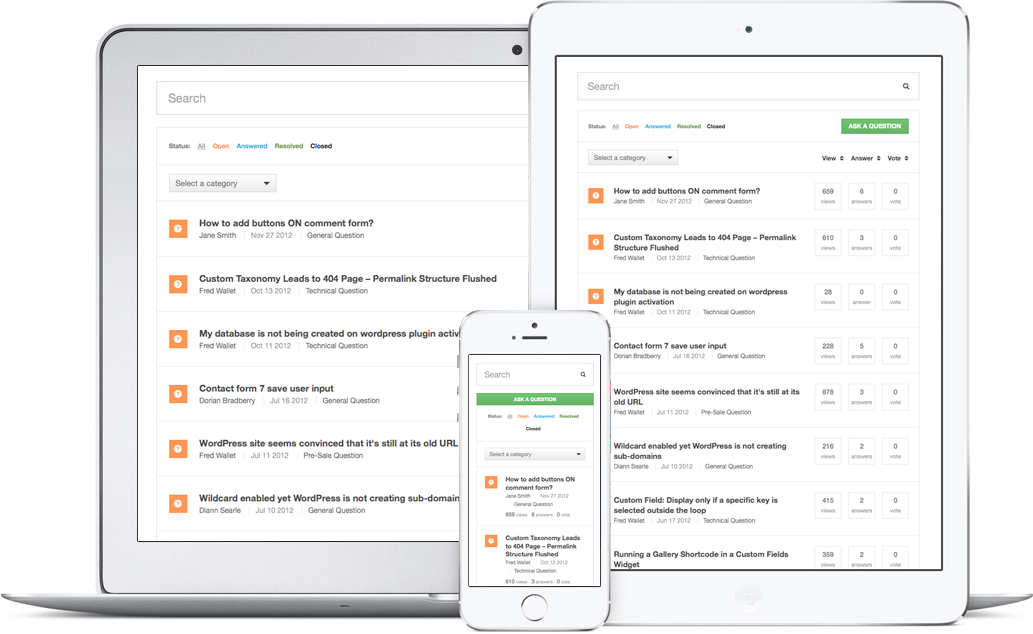
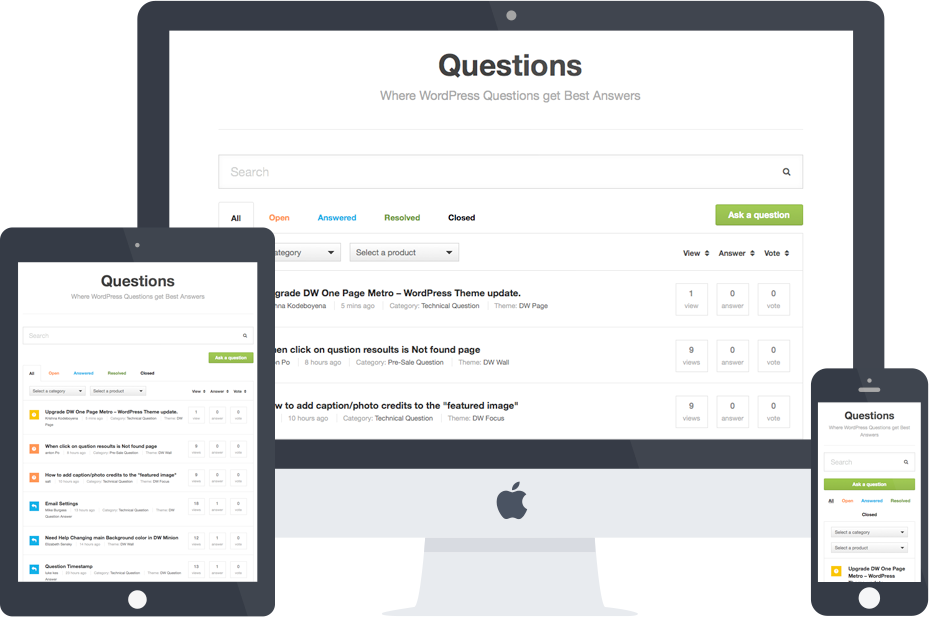
Style for feature page and replace image in index page

diff --git a/index.html b/index.html
@@ -24,8 +24,8 @@
     <nav class="navbar navbar-fixed-top" role="navigation" data-spy="affix" data-offset-top="50">
       <div class="container">
         <ul class="nav navbar-nav">
-          <li class="active"><a href="index.html">Home</a></li>
-          <li><a href="features.html">Features</a></li>
+          <li class="active"><a href="index.html">DW Question &amp; Answer</a></li>
+          <li><a href="features.html">Explore</a></li>
           <li><a href="documentation.html">Documentation</a></li>
           <li><a href="#">Support</a></li>
           <li class="social">
@@ -63,25 +63,6 @@
         </div>
       </section>
 
-      <!--<section id="social-buttons" class="section hidden-print">
-        <div class="container">
-          <ul class="list-inline">
-            <li>
-              <iframe class="github-btn" src="http://ghbtns.com/github-btn.html?user=DesignWall&amp;repo=DW-Question-Answer&amp;type=watch&amp;count=true" allowtransparency="true" frameborder="0" scrolling="0" width="100px" height="20px"></iframe>
-            </li>
-            <li>
-              <iframe class="github-btn" src="http://ghbtns.com/github-btn.html?user=DesignWall&amp;repo=DW-Question-Answer&amp;type=fork&amp;count=true" allowtransparency="true" frameborder="0" scrolling="0" width="102px" height="20px"></iframe>
-            </li>
-            <li class="follow-btn">
-              <iframe id="twitter-widget-1" scrolling="no" frameborder="0" allowtransparency="true" src="http://platform.twitter.com/widgets/follow_button.1384994725.html#_=1386213911579&amp;id=twitter-widget-1&amp;lang=en&amp;screen_name=designwall_com&amp;show_count=true&amp;show_screen_name=true&amp;size=m" class="twitter-follow-button twitter-follow-button" title="Twitter Follow Button" data-twttr-rendered="true" style="width: 243px; height: 20px;"></iframe>
-            </li>
-            <li class="tweet-btn hidden-phone">
-              <iframe id="twitter-widget-0" scrolling="no" frameborder="0" allowtransparency="true" src="http://platform.twitter.com/widgets/tweet_button.1384994725.html#_=1386213911567&amp;count=horizontal&amp;counturl=http%3A%2F%2Ffortawesome.github.com%2FFont-Awesome%2F&amp;id=twitter-widget-0&amp;lang=en&amp;original_referer=http%3A%2F%2Ffontawesome.io%2Fexamples%2F&amp;related=davegandy%3ACreator%20of%20Font%20Awesome&amp;size=m&amp;text=Font%20Awesome%2C%20the%20iconic%20font%20designed%20for%20Bootstrap&amp;url=http%3A%2F%2Ffontawesome.io&amp;via=designwall_com" class="twitter-share-button twitter-tweet-button twitter-count-horizontal" title="Twitter Tweet Button" data-twttr-rendered="true" style="width: 107px; height: 20px;"></iframe>
-            </li>
-          </ul>
-        </div>
-      </section>-->
-
       <section id="slider" class="section">
         <div class="container">
           
@@ -90,19 +71,81 @@
           
           <div id="carousel-example-generic" class="carousel slide" data-ride="carousel">
             <div class="carousel-inner">
-              <div class="item">
-                <img data-src="holder.js/900x500/auto/#777:#555/text:First slide" alt="First slide" src="assets/img/dwqa-screenshot.png">
-              </div>
               <div class="item active">
-                <img data-src="holder.js/900x500/auto/#666:#444/text:Second slide" alt="Second slide" src="assets/img/dwqa-screenshot.png">
+                <img alt="First slide" src="images/slide-1.png">
               </div>
               <div class="item">
-                <img data-src="holder.js/900x500/auto/#555:#333/text:Third slide" alt="Third slide" src="assets/img/dwqa-screenshot.png">
+                <img alt="Second slide" src="images/slide-1.png">
+              </div>
+              <div class="item">
+                <img alt="Third slide" src="images/slide-1.png">
               </div>
             </div>
             <a class="left carousel-control" href="#carousel-example-generic" data-slide="prev">
               <span>Previous</span>
             </a>
+            <a class="right carousel-control" href="#carousel-example-generic" data-slide="next">
+              <span>Next</span>
+            </a>
+          </div>
+        </div>
+
+        <a href="#" class="btn btn-default btn-lg">Explore Features</a>
+      </section>
+      <section id="quotes" class="section">
+        <div class="container">
+          <i class="fa fa-quote-left"></i>
+          <div id="quote-carousel" class="carousel slide" data-ride="carousel">
+          <ol class="carousel-indicators">
+            <li data-target="#quote-carousel" data-slide-to="0" class="active"></li>
+            <li data-target="#quote-carousel" data-slide-to="1"></li>
+            <li data-target="#quote-carousel" data-slide-to="2"></li>
+          </ol>
+
+          <div class="carousel-inner">
+            <div class="item active">
+              <blockquote>
+                <p>"Great theme - but like most themes it needs to be customised to be exactly how you like it."</p>
+                <cite>Ludus247 # DW Minion</cite>
+              </blockquote>
+            </div>
+            <div class="item">
+              <blockquote>
+                <p>"Great theme - but like most themes it needs to be customised to be exactly how you like it."</p>
+                <cite>Ludus247 # DW Minion</cite>
+              </blockquote>
+            </div>
+            <div class="item">
+              <blockquote>
+                <p>"Great theme - but like most themes it needs to be customised to be exactly how you like it."</p>
+                <cite>Ludus247 # DW Minion</cite>
+              </blockquote>
+            </div>
+          </div>
+        </div>
+          
+        </div>
+      </section>
+
+      <section id="actions" class="section">
+        <h2 class="section-title">Best things are free. Why wait?</h2>
+        <div class="container">
+          <a href="#" class="btn btn-success btn-lg">Download now</a>
+          <a href="#" class="btn btn-default btn-lg">Live demo</a>
+        </div>
+      </section>
+    </main>
+
+    <footer id="footer">
+      <div class="container">
+        <p>&copy; DesignWall 2013</p>
+      </div>
+    </footer>
+    <script src="https://code.jquery.com/jquery-1.10.2.min.js"></script>
+    <script src="assets/js/bootstrap.min.js"></script>
+  </body>
+</html>
+  </a>
             <a class="right carousel-control" href="#carousel-example-generic" data-slide="next">
               <span>Next</span>
             </a>

diff --git a/features.html b/features.html
@@ -24,8 +24,8 @@
     <nav class="navbar navbar-fixed-top" role="navigation" data-spy="affix" data-offset-top="50">
       <div class="container">
         <ul class="nav navbar-nav">
-          <li><a href="index.html">Home</a></li>
-          <li class="active"><a href="features.html">Features</a></li>
+          <li><a href="index.html">DW Question &amp; Answer</a></li>
+          <li class="active"><a href="features.html">Explore</a></li>
           <li><a href="documentation.html">Documentation</a></li>
           <li><a href="#">Support</a></li>
           <li class="social">
@@ -43,7 +43,7 @@
       <section class="section jumbotron">
         <div class="container">
           <h1>Explore & Discover</h1>
-          <p class="section-description lead" style="fon-size:25px; margin:40px;">Amazing features. Amazing functions.</p>
+          <p>Amazing features. Amazing functions.</p>
           <div class="row">
             <div class="col-md-2"><div class="feature-item"><i class="fa fa-tablet"></i>&nbsp;<i class="fa fa-mobile"></i> <span>Mobile Ready</span></div></div>
             <div class="col-md-2"><div class="feature-item"><i class="fa fa-search"></i> <span>Instant Search</span></div></div>
@@ -58,8 +58,8 @@
       <section class="section">
         <div class="container">
           <h2 class="section-title">Mobile Ready. Access from Everywhere.</h2>
-          <p class="section-description lead">Fully responsive. Bring it on the go, interact on mobile devices and tablets.</p>
-          <img src="http://images.apple.com/iphone-5s/features/images/cloud_hero.jpg" alt="" />
+          <p class="section-description lead">Fully responsive. Interact on tablets and mobile devices.</p>
+          <img src="images/feature-responsive.png" alt="" style="margin-left: -100px;" />
         </div>
       </section>
 
@@ -103,7 +103,7 @@
             </div>
             <div class="col-md-5">
               <div style="margin: 60px 60px 0 30px; text-align: left;">
-                <h1>users Engagement</h1>
+                <h1>Users Engagement</h1>
                 <p class="lead">Drive community engagement for your Q&A site with options for comments, votes and pick out the best answers.</p>
               </div>
             </div>
@@ -131,7 +131,7 @@
         <div class="container">
           <h2 class="section-title">One Style fits All</h2>
           <p class="section-description lead">A minimal style that fits well in any Wordpress theme and site.</p>
-          <img src="http://images.apple.com/mac/home/images/feature_ilife_iwork_hero.jpg" alt="" />
+          <img src="images/feature_multi_style.png" alt="" />
         </div>
       </section>
 
@@ -144,6 +144,10 @@
       </div>
     </footer>
     <script src="https://code.jquery.com/jquery-1.10.2.min.js"></script>
+    <script src="assets/js/bootstrap.min.js"></script>
+  </body>
+</html>
+uery.com/jquery-1.10.2.min.js"></script>
     <script src="assets/js/bootstrap.min.js"></script>
   </body>
 </html>

diff --git a/assets/css/template.css b/assets/css/template.css
@@ -6128,6 +6128,7 @@ td.visible-print {
   margin: 0 auto;
 }
 .carousel-control {
+  outline: none !important;
   background: none !important;
   opacity: 1;
   filter: alpha(opacity=100);
@@ -6167,6 +6168,9 @@ td.visible-print {
 .lead {
   color: #999999;
 }
+.navbar {
+  background: #2c303b;
+}
 .navbar .container > ul {
   display: block;
   width: 100%;
@@ -6183,9 +6187,6 @@ td.visible-print {
 .navbar .btn {
   padding: 4px 14px;
   margin: 10px 0 10px 20px;
-}
-.navbar.affix {
-  background: #333333;
 }
 .navbar.affix .container > ul {
   border-bottom: none;
@@ -6286,6 +6287,12 @@ td.visible-print {
 .features .jumbotron h1 {
   margin: 0 0 40px;
 }
+.features .jumbotron p {
+  margin: -20px 0 40px;
+  font-size: 36px;
+  color: #999999;
+  font-weight: 500;
+}
 .feature-item {
   border: 1px solid rgba(255, 255, 255, 0.1);
   width: 163px;
@@ -6365,7 +6372,7 @@ td.visible-print {
   border-bottom: none;
 }
 #quotes {
-  background: #333333;
+  background: #2c303b;
   color: #fff;
   border-bottom: none;
   position: relative;

diff --git a/assets/less/style.less b/assets/less/style.less
@@ -40,6 +40,7 @@
 }
 
 .carousel-control {
+  outline: none !important;
   background: none !important;
   .opacity(1);
   width: auto;
@@ -86,6 +87,8 @@
 }
 
 .navbar {
+  background: #2c303b;
+
   .container > ul {
     display: block;
     width: 100%;
@@ -105,10 +108,6 @@
   .btn {
     padding: 4px 14px;
     margin: 10px 0 10px 20px;
-  }
-
-  &.affix {
-    background: @gray-dark;
   }
 
   &.affix .container > ul {
@@ -225,6 +224,13 @@
     h1 {
       margin: 0 0 40px;
     }
+
+    p {
+      margin: -20px 0 40px;
+      font-size: 36px;
+      color: @gray-light;
+      font-weight: 500;
+    }
   }
 }
 
@@ -327,7 +333,7 @@
 }
 
 #quotes {
-  background: @gray-dark;
+  background: #2c303b;
   color: #fff;
   border-bottom: none;
   position: relative;

diff --git a/documentation.html b/documentation.html
@@ -24,8 +24,8 @@
     <nav class="navbar navbar-fixed-top" role="navigation" data-spy="affix" data-offset-top="50">
       <div class="container">
         <ul class="nav navbar-nav">
-          <li><a href="index.html">Home</a></li>
-          <li><a href="features.html">Features</a></li>
+          <li><a href="index.html">DW Question &amp; Answer</a></li>
+          <li><a href="features.html">Explore</a></li>
           <li class="active"><a href="documentation.html">Documentation</a></li>
           <li><a href="#">Support</a></li>
           <li class="social">
